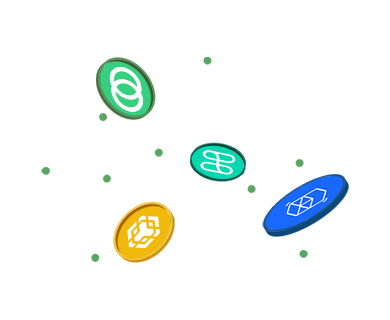
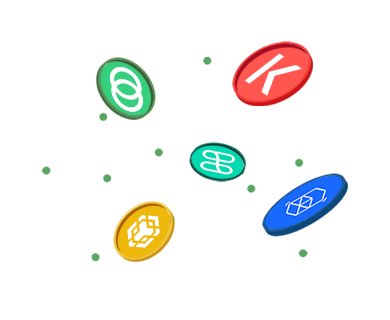
dynamic chains and update bg

diff --git a/src/components/Home/Hero/Hero.tsx b/src/components/Home/Hero/Hero.tsx
@@ -8,6 +8,7 @@ import topRight from '../../../images/hero-top-right.png';
 import { theme } from '../../../theme';
 import { PrimaryExternalLink, SecondaryExternalLink } from '../../Common/Buttons';
 import { useAppUrl } from '../../../utils/react-utils';
+import { useChainCount } from '../../../data/queries/total-chains';
 
 // Background images
 const w = 390;
@@ -86,13 +87,14 @@ const Container = styled.div`
 
 export const Hero = memo(function Hero() {
   const appUrl = useAppUrl();
+  const chains = useChainCount();
 
   return (
     <CustomInner>
       <Container>
         <Title>Multichain Yield Optimizer</Title>
         <Subtitle>
-          Earn the highest APY’s across 16 chains with safety and efficiency in mind.
+          Earn the highest APY’s across {chains} chains with safety and efficiency in mind.
         </Subtitle>
         <Buttons>
           <PrimaryExternalLink href={appUrl} target="_blank">
